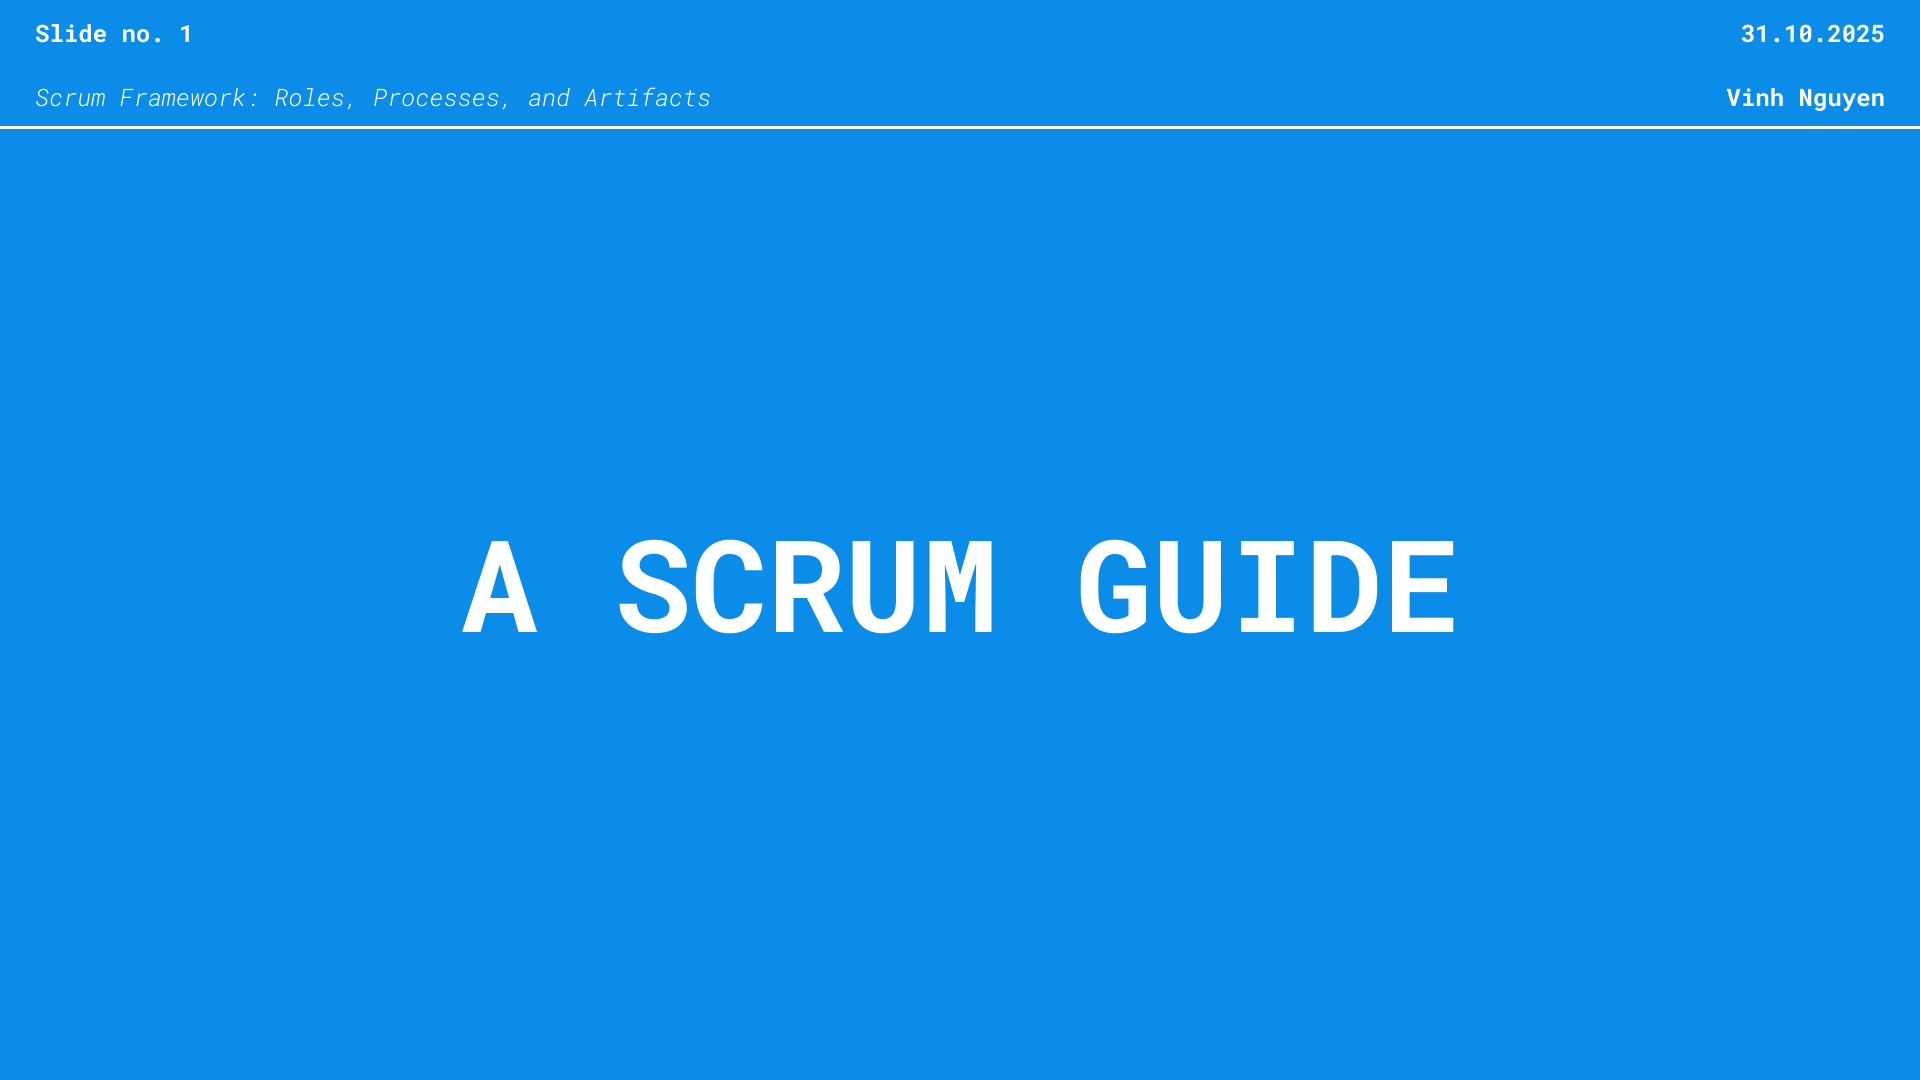
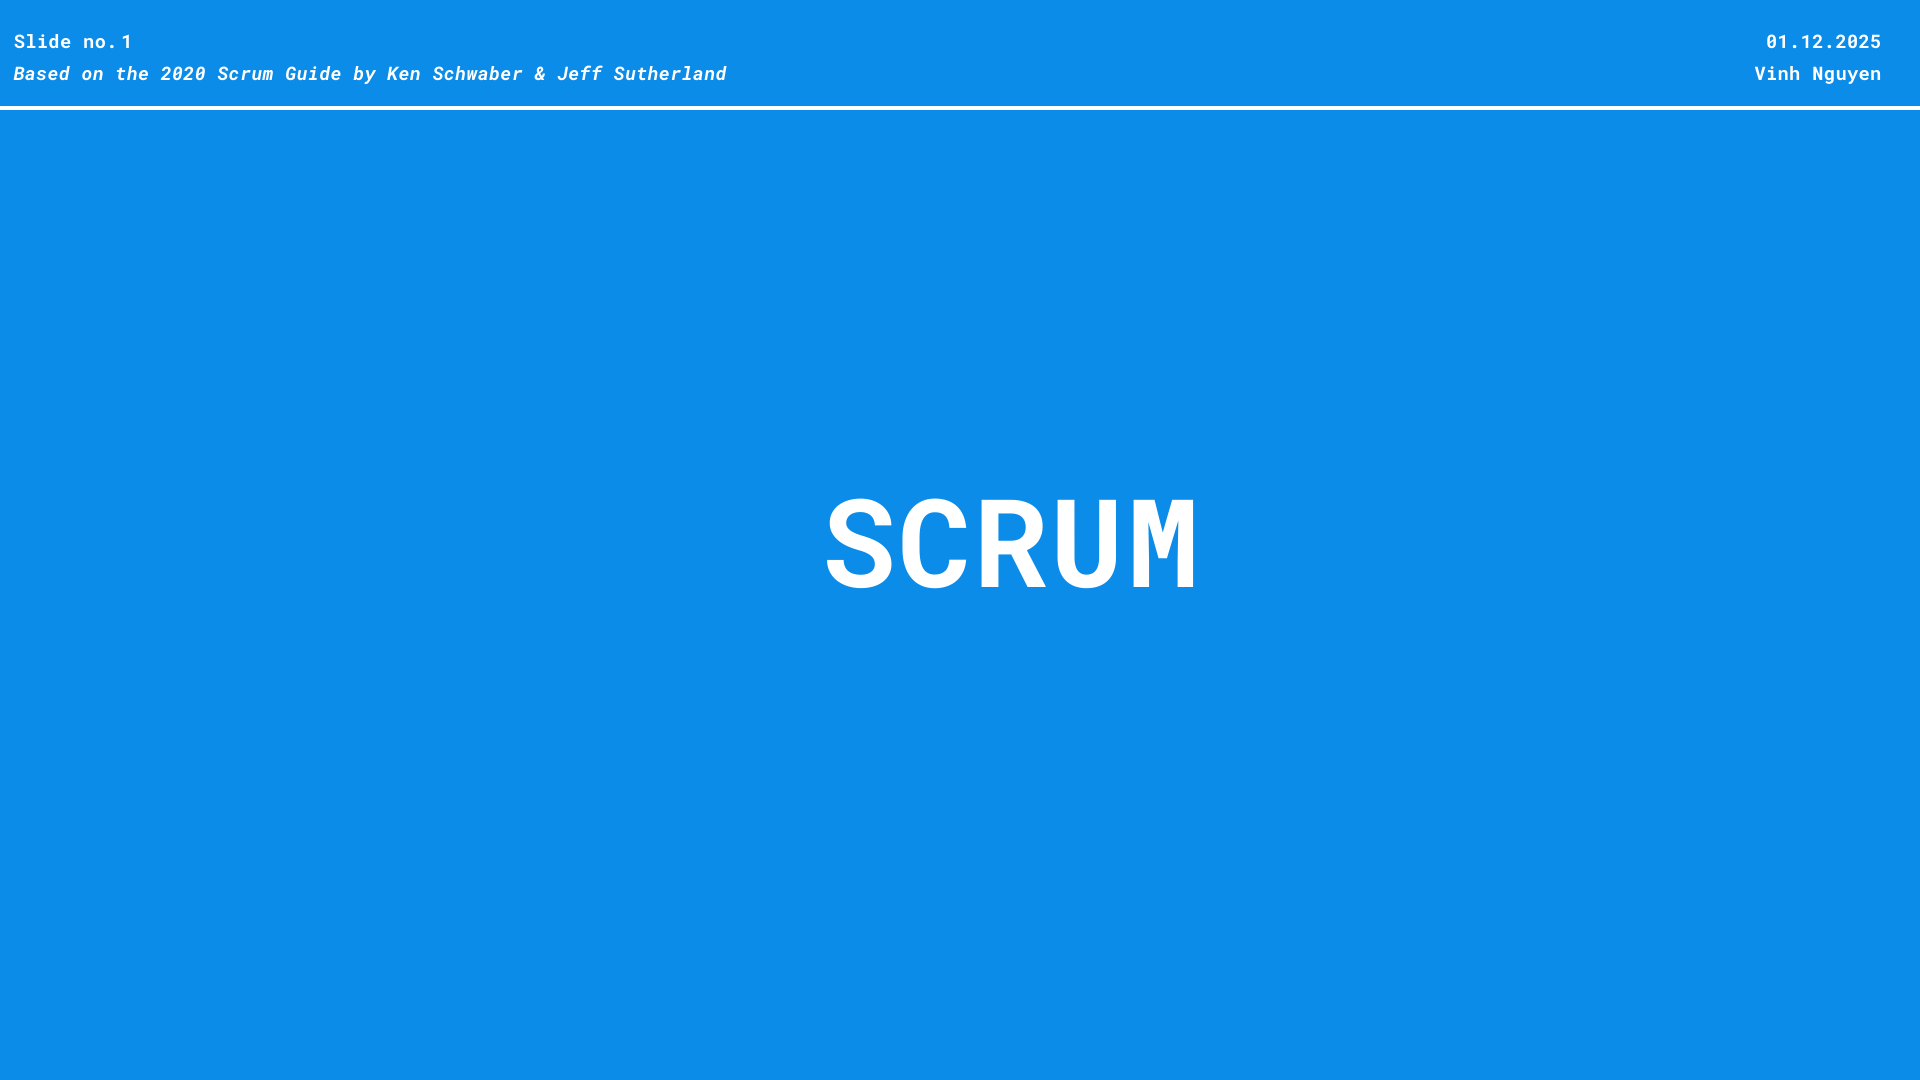
Update Scrum Guide slides and add Vietnamese version

Changed region(s): [[0.0, 0.0, 1.0, 0.1222], [0.3125, 0.4583, 0.7812, 0.6111], [0.2188, 0.4889, 0.2812, 0.5806]]

diff --git a/scrum-guide-vn/index.html b/scrum-guide-vn/index.html
@@ -1,5 +1,5 @@
 <!DOCTYPE html>
-<html lang="en">
+<html lang="vi">
 <head>
     <meta charset="UTF-8">
     <meta name="viewport" content="width=device-width, initial-scale=1.0">
